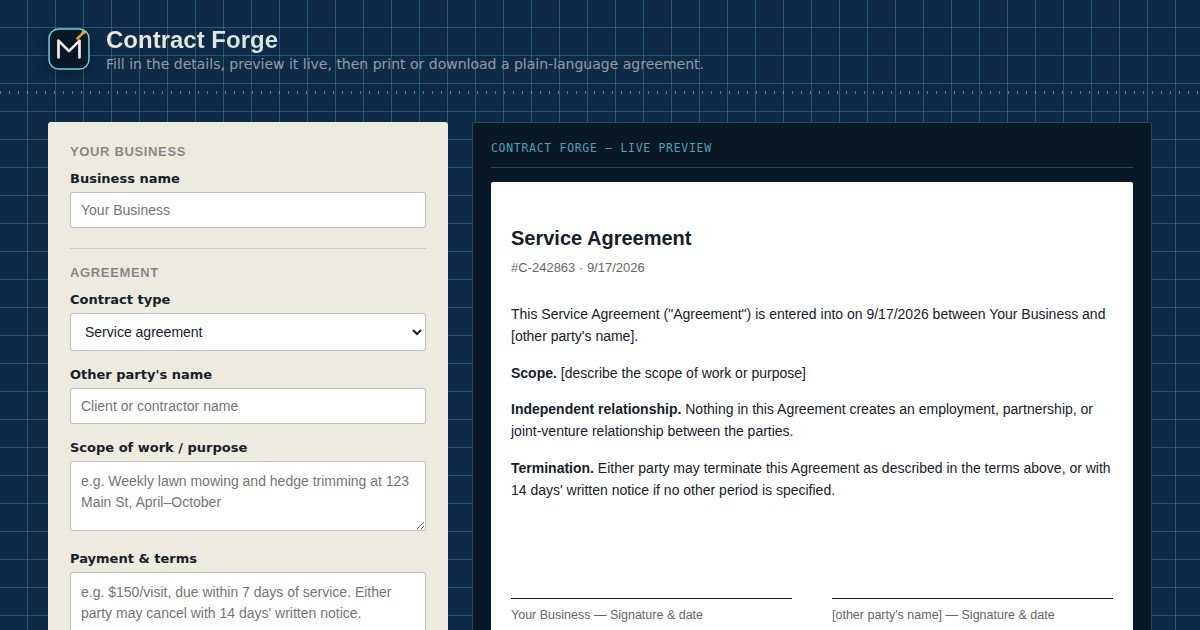
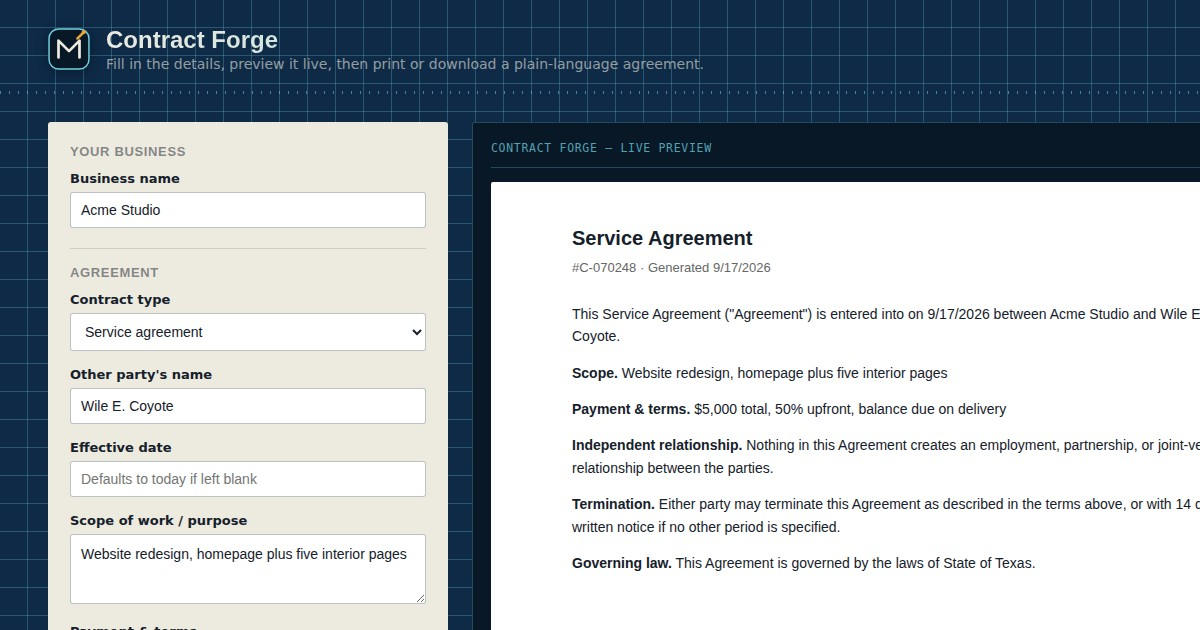
Add signature pad, draft autosave, and effective-date/governing-law to Contract Forge
Contract Forge only had blank signature lines with no way to actually sign,
no persistence for a form with 6+ fields, and no effective-date or
governing-law fields — both near-universal in real small-business
agreements.

- Added a canvas-based signature pad for each party (draw with mouse or
  finger via Pointer Events, properly scaled between the canvas's internal
  resolution and its responsive CSS size). A drawn signature is embedded as
  a PNG data URI directly above that party's signature line in the generated
  document; left blank, it falls back to the existing blank line.
- Added an effective-date field (defaults to today if left blank) and an
  optional governing-law field, both wired into the generated agreement
  text.
- Added draft autosave via localStorage for the text fields (business name,
  contract type, other party, effective date, scope, terms, governing law) —
  restored on next visit. Signatures are intentionally not persisted.

Tested with Playwright: verified effective date and governing law appear
correctly in the live preview, drew a real signature with simulated mouse
strokes and confirmed it appears embedded as a PNG in the downloaded HTML,
confirmed clearing a signature removes it from the preview, and confirmed
the text draft survives a full page reload while the signature correctly
does not persist. Zero console errors. Regenerated the OG screenshot.

Claude-Session: https://claude.ai/code/session_01YHretEVuD8m4VENuHZYMER

diff --git a/contract-forge.html b/contract-forge.html
@@ -157,12 +157,33 @@
       <input type="text" id="otherParty" placeholder="Client or contractor name">
     </div>
     <div class="field">
+      <label for="effectiveDate">Effective date</label>
+      <input type="text" id="effectiveDate" placeholder="Defaults to today if left blank">
+    </div>
+    <div class="field">
       <label for="scope">Scope of work / purpose</label>
       <textarea id="scope" placeholder="e.g. Weekly lawn mowing and hedge trimming at 123 Main St, April–October"></textarea>
     </div>
     <div class="field">
       <label for="terms">Payment &amp; terms</label>
       <textarea id="terms" placeholder="e.g. $150/visit, due within 7 days of service. Either party may cancel with 14 days' written notice."></textarea>
+    </div>
+    <div class="field">
+      <label for="governingLaw">Governing law (optional)</label>
+      <input type="text" id="governingLaw" placeholder="e.g. State of Texas">
+    </div>
+
+    <div class="section-title">Signatures (optional)</div>
+    <div class="field">
+      <label>Your signature</label>
+      <canvas id="sigCanvasBiz" width="300" height="100" style="border:1px solid rgba(22,32,43,0.28);border-radius:var(--radius);background:#fff;touch-action:none;cursor:crosshair;display:block;width:100%;height:100px;"></canvas>
+      <button type="button" class="draft-btn secondary" id="clearSigBiz" style="margin-top:6px;">Clear</button>
+    </div>
+    <div class="field">
+      <label>Other party's signature</label>
+      <canvas id="sigCanvasOther" width="300" height="100" style="border:1px solid rgba(22,32,43,0.28);border-radius:var(--radius);background:#fff;touch-action:none;cursor:crosshair;display:block;width:100%;height:100px;"></canvas>
+      <button type="button" class="draft-btn secondary" id="clearSigOther" style="margin-top:6px;">Clear</button>
+      <p class="hint">Sign with a mouse or finger — handy if you're filling this out together with the other party. Otherwise leave blank and print or download for a signature later.</p>
     </div>
 
     <div class="error-box" id="errorBox"></div>
@@ -188,8 +209,10 @@
   const bizNameInput = document.getElementById('bizName');
   const contractType = document.getElementById('contractType');
   const otherParty = document.getElementById('otherParty');
+  const effectiveDateInput = document.getElementById('effectiveDate');
   const scope = document.getElementById('scope');
   const terms = document.getElementById('terms');
+  const governingLawInput = document.getElementById('governingLaw');
   const errorBox = document.getElementById('errorBox');
   const printBtn = document.getElementById('printBtn');
   const downloadBtn = document.getElementById('downloadBtn');
@@ -198,7 +221,71 @@
   function showError(msg) { errorBox.textContent = msg; errorBox.classList.add('show'); }
   function clearError() { errorBox.textContent = ''; errorBox.classList.remove('show'); }
 
-  [bizNameInput, contractType, otherParty, scope, terms].forEach(el => el.addEventListener('input', renderPreview));
+  // ---------- draft autosave ----------
+  const DRAFT_KEY = 'contractForgeDraft_v1';
+  const draftFields = [bizNameInput, contractType, otherParty, effectiveDateInput, scope, terms, governingLawInput];
+
+  function saveDraft() {
+    try {
+      localStorage.setItem(DRAFT_KEY, JSON.stringify({
+        bizName: bizNameInput.value, contractType: contractType.value, otherParty: otherParty.value,
+        effectiveDate: effectiveDateInput.value, scope: scope.value, terms: terms.value, governingLaw: governingLawInput.value
+      }));
+    } catch (e) {}
+  }
+  function loadDraft() {
+    try {
+      const raw = localStorage.getItem(DRAFT_KEY);
+      if (!raw) return;
+      const d = JSON.parse(raw);
+      if (d.bizName) bizNameInput.value = d.bizName;
+      if (d.contractType) contractType.value = d.contractType;
+      if (d.otherParty) otherParty.value = d.otherParty;
+      if (d.effectiveDate) effectiveDateInput.value = d.effectiveDate;
+      if (d.scope) scope.value = d.scope;
+      if (d.terms) terms.value = d.terms;
+      if (d.governingLaw) governingLawInput.value = d.governingLaw;
+    } catch (e) {}
+  }
+  loadDraft();
+
+  // ---------- signature pads ----------
+  function setupSignaturePad(canvas) {
+    const ctx = canvas.getContext('2d');
+    ctx.lineWidth = 2; ctx.lineCap = 'round'; ctx.lineJoin = 'round'; ctx.strokeStyle = '#16202B';
+    let drawing = false, hasContent = false, lastX = 0, lastY = 0;
+    function pos(e) {
+      const rect = canvas.getBoundingClientRect();
+      return { x: (e.clientX - rect.left) * (canvas.width / rect.width), y: (e.clientY - rect.top) * (canvas.height / rect.height) };
+    }
+    canvas.addEventListener('pointerdown', (e) => {
+      drawing = true; hasContent = true;
+      const p = pos(e); lastX = p.x; lastY = p.y;
+      try { canvas.setPointerCapture(e.pointerId); } catch (err) {}
+      e.preventDefault();
+    });
+    canvas.addEventListener('pointermove', (e) => {
+      if (!drawing) return;
+      const p = pos(e);
+      ctx.beginPath(); ctx.moveTo(lastX, lastY); ctx.lineTo(p.x, p.y); ctx.stroke();
+      lastX = p.x; lastY = p.y;
+    });
+    function stop() { if (drawing) { drawing = false; renderPreview(); } }
+    canvas.addEventListener('pointerup', stop);
+    canvas.addEventListener('pointerleave', stop);
+    canvas.addEventListener('pointercancel', stop);
+    return {
+      isEmpty: () => !hasContent,
+      clear: () => { ctx.clearRect(0, 0, canvas.width, canvas.height); hasContent = false; renderPreview(); },
+      toDataUrl: () => hasContent ? canvas.toDataURL('image/png') : ''
+    };
+  }
+  const sigPadBiz = setupSignaturePad(document.getElementById('sigCanvasBiz'));
+  const sigPadOther = setupSignaturePad(document.getElementById('sigCanvasOther'));
+  document.getElementById('clearSigBiz').addEventListener('click', () => sigPadBiz.clear());
+  document.getElementById('clearSigOther').addEventListener('click', () => sigPadOther.clear());
+
+  draftFields.forEach(el => el.addEventListener('input', () => { renderPreview(); saveDraft(); }));
 
   function buildDocument() {
     const type = contractType.value;
@@ -206,41 +293,50 @@
     const other = otherParty.value.trim() || "[other party's name]";
     const scopeText = scope.value.trim() || '[describe the scope of work or purpose]';
     const termsText = terms.value.trim();
+    const governingLawText = governingLawInput.value.trim();
 
     const date = new Date().toLocaleDateString();
+    const effectiveDateText = effectiveDateInput.value.trim() || date;
     const docNumber = 'C-' + Date.now().toString().slice(-6);
     const isNda = type === 'NDA';
 
     const bodyParagraphs = isNda
       ? [
-          'This Non-Disclosure Agreement ("Agreement") is entered into on ' + date + ' between ' + bizName + ' ("Disclosing Party") and ' + other + ' ("Receiving Party").',
+          'This Non-Disclosure Agreement ("Agreement") is entered into on ' + effectiveDateText + ' between ' + bizName + ' ("Disclosing Party") and ' + other + ' ("Receiving Party").',
           '<strong>Purpose.</strong> ' + scopeText,
           '<strong>Confidentiality.</strong> The Receiving Party agrees to keep confidential all non-public information shared in connection with the above purpose, and not to disclose it to third parties without prior written consent.',
           termsText ? '<strong>Additional terms.</strong> ' + termsText : '',
-          '<strong>Term.</strong> This Agreement remains in effect until the information no longer qualifies as confidential, or either party terminates it in writing.'
+          '<strong>Term.</strong> This Agreement remains in effect until the information no longer qualifies as confidential, or either party terminates it in writing.',
+          governingLawText ? '<strong>Governing law.</strong> This Agreement is governed by the laws of ' + governingLawText + '.' : ''
         ]
       : [
-          'This ' + type + ' ("Agreement") is entered into on ' + date + ' between ' + bizName + ' and ' + other + '.',
+          'This ' + type + ' ("Agreement") is entered into on ' + effectiveDateText + ' between ' + bizName + ' and ' + other + '.',
           '<strong>Scope.</strong> ' + scopeText,
           termsText ? '<strong>Payment &amp; terms.</strong> ' + termsText : '',
           '<strong>Independent relationship.</strong> Nothing in this Agreement creates an employment, partnership, or joint-venture relationship between the parties.',
-          '<strong>Termination.</strong> Either party may terminate this Agreement as described in the terms above, or with 14 days\' written notice if no other period is specified.'
+          '<strong>Termination.</strong> Either party may terminate this Agreement as described in the terms above, or with 14 days\' written notice if no other period is specified.',
+          governingLawText ? '<strong>Governing law.</strong> This Agreement is governed by the laws of ' + governingLawText + '.' : ''
         ];
     const bodyHtml = bodyParagraphs.filter(Boolean).map(p => '<p>' + p + '</p>').join('');
+
+    const bizSigImg = sigPadBiz.toDataUrl();
+    const otherSigImg = sigPadOther.toDataUrl();
+    const bizSigBlock = bizSigImg ? '<img src="' + bizSigImg + '" style="height:60px;display:block;">' : '';
+    const otherSigBlock = otherSigImg ? '<img src="' + otherSigImg + '" style="height:60px;display:block;">' : '';
 
     const html = '<!DOCTYPE html><html><head><meta charset="UTF-8"><title>' + type + ' ' + docNumber + '</title>' +
       '<style>body{font-family:Arial,sans-serif;color:#16202B;max-width:680px;margin:40px auto;padding:0 20px;line-height:1.6;}' +
       'h1{font-size:20px;margin:0 0 4px;} .meta{color:#666;font-size:13px;margin-bottom:24px;}' +
       'p{font-size:14px;margin:0 0 14px;}' +
       '.sign-block{display:flex;gap:40px;margin-top:48px;}' +
-      '.sign{flex:1;} .sign-line{border-top:1px solid #16202B;margin-top:48px;padding-top:6px;font-size:12.5px;color:#666;}' +
+      '.sign{flex:1;} .sign-line{border-top:1px solid #16202B;margin-top:8px;padding-top:6px;font-size:12.5px;color:#666;}' +
       '@media print{body{margin:0;}}</style></head><body>' +
       '<h1>' + type + '</h1>' +
-      '<div class="meta">#' + docNumber + ' · ' + date + '</div>' +
+      '<div class="meta">#' + docNumber + ' · Generated ' + date + '</div>' +
       bodyHtml +
       '<div class="sign-block">' +
-      '<div class="sign"><div class="sign-line">' + bizName + ' — Signature &amp; date</div></div>' +
-      '<div class="sign"><div class="sign-line">' + other + ' — Signature &amp; date</div></div>' +
+      '<div class="sign">' + bizSigBlock + '<div class="sign-line">' + bizName + ' — Signature &amp; date</div></div>' +
+      '<div class="sign">' + otherSigBlock + '<div class="sign-line">' + other + ' — Signature &amp; date</div></div>' +
       '</div>' +
       '</body></html>';
 
